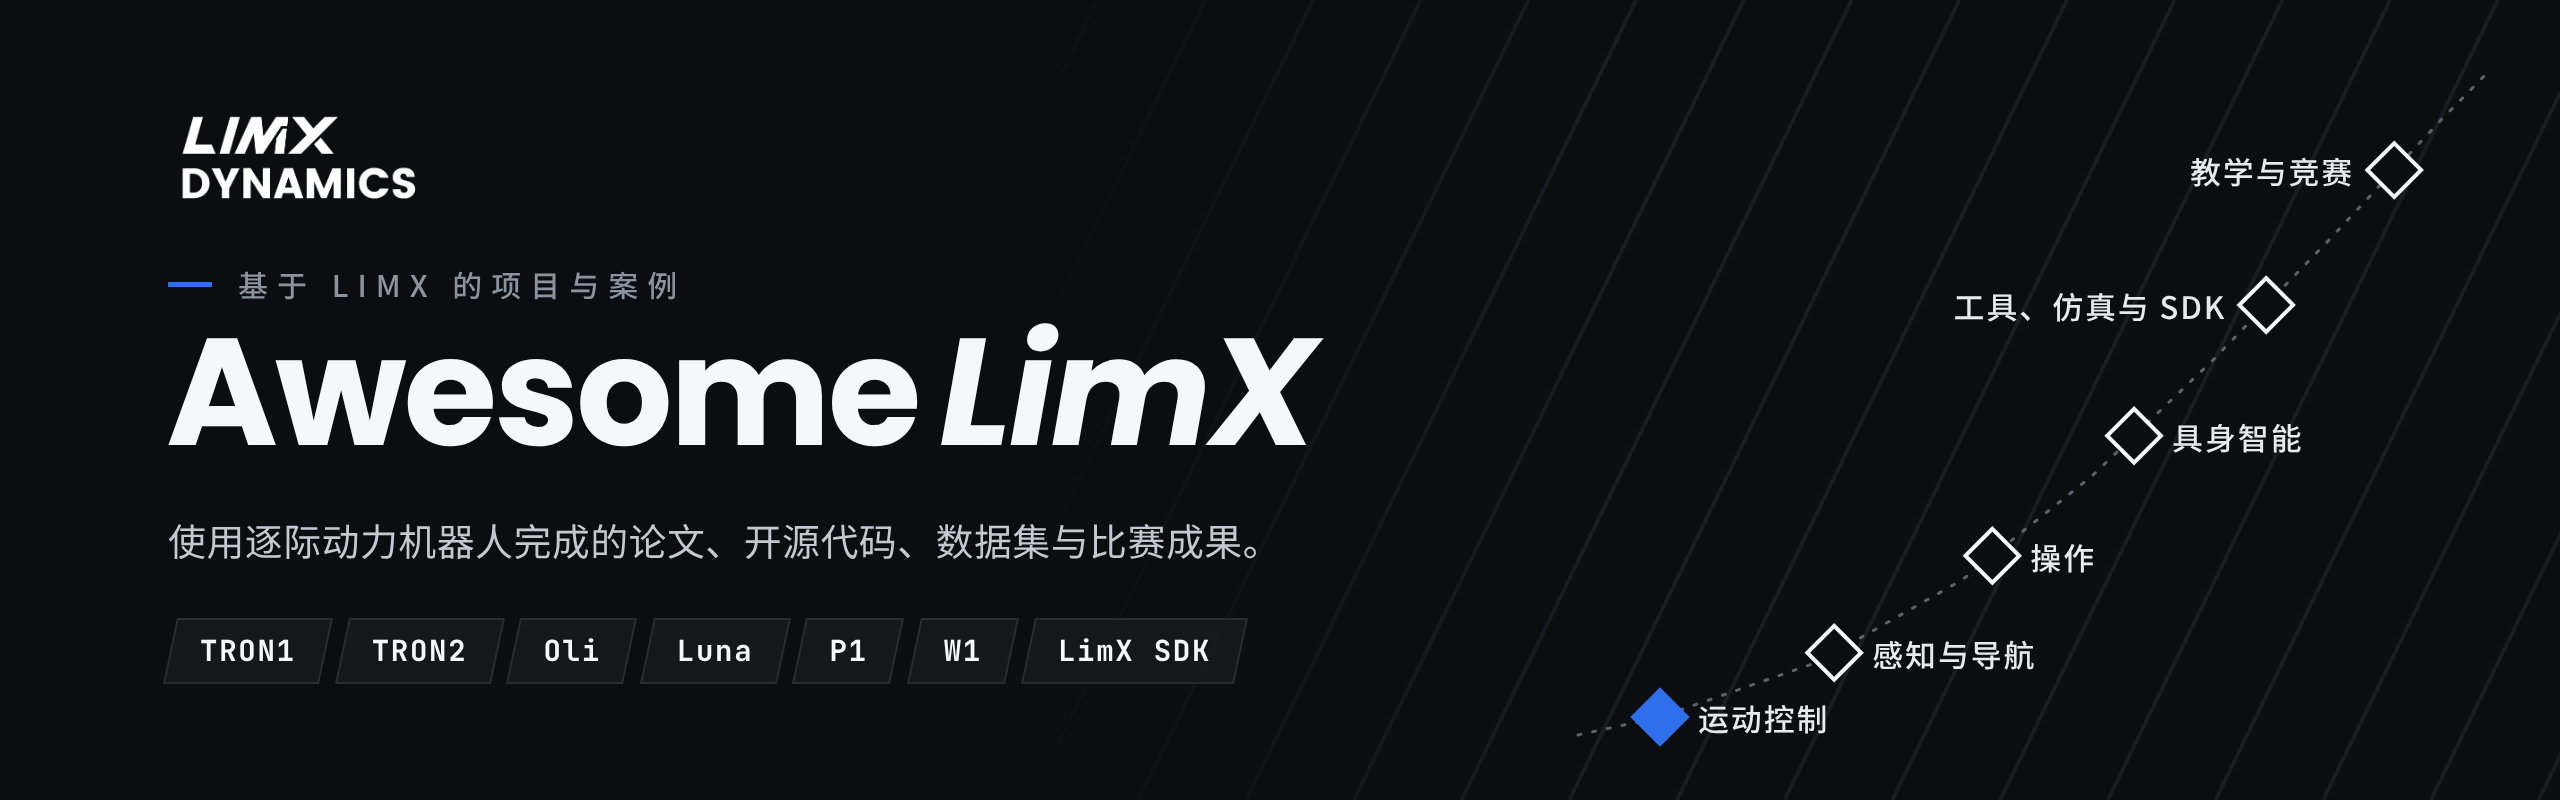
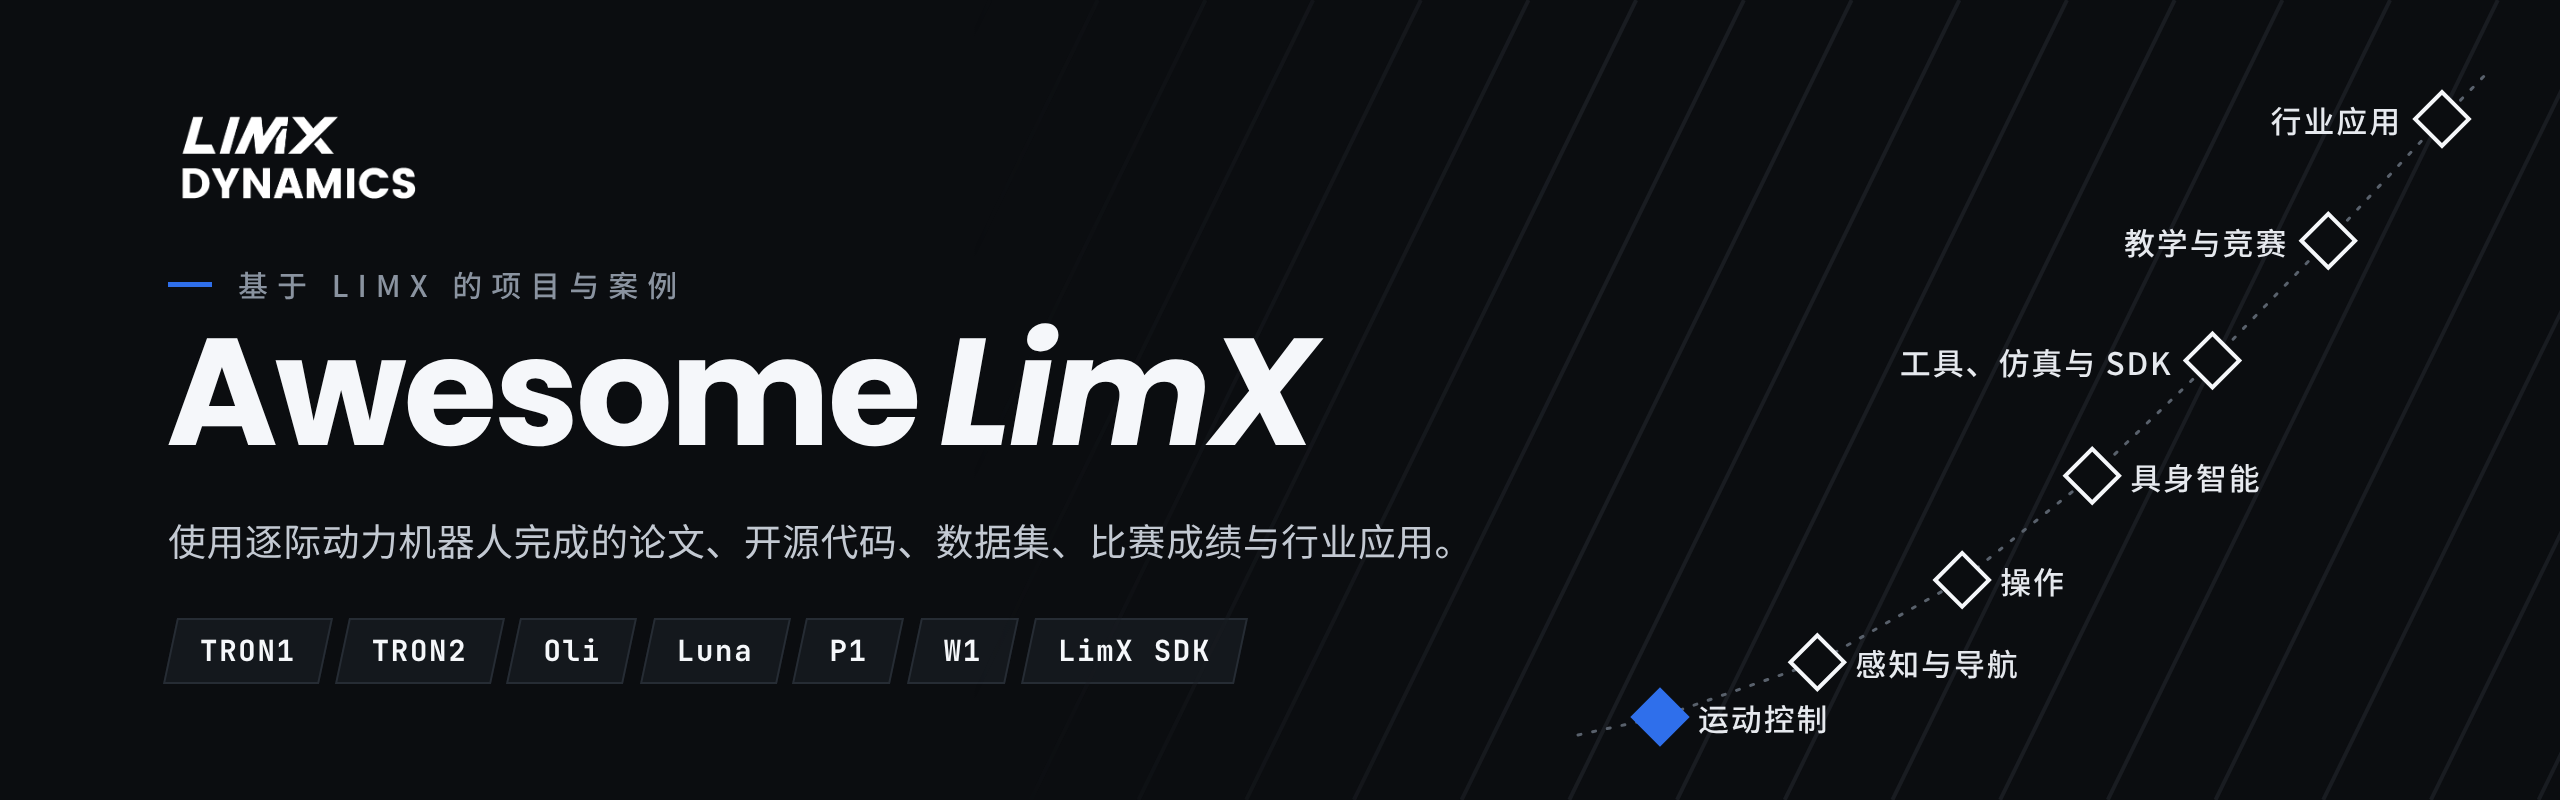
docs: add Industry deployments with two public partner projects
- TENNIIX ULTRA MAX (Enhanced Robotics): tennis robot on a TRON2 base at the 2026 BJK Cup Finals
- ZINOVA Tool Intelligence: two TRON2s on a scaled tilt-up concrete job
- CONTRIBUTING: a company's own public announcement counts as agreement; add `news` link kind
- Banner, intro line, nav and By robot table include the new section

diff --git a/README.md b/README.md
@@ -12,25 +12,25 @@
   <a href="https://github.com/limxdynamics/limxdynamics/blob/main/doc/wechat_qr.png"><img src="https://img.shields.io/badge/WeChat-Developer%20Community-07C160?logo=wechat&logoColor=white" alt="WeChat Community"></a>
 </p>
 
-Public work that uses LimX hardware or software: papers, open-source code, datasets, tutorials and competition results. LimX's own open-source releases live on [GitHub](https://github.com/limxdynamics) and [Hugging Face](https://huggingface.co/limxdynamics).
+Public work that uses LimX hardware or software: papers, open-source code, datasets, tutorials, competition results and industry deployments. LimX's own open-source releases live on [GitHub](https://github.com/limxdynamics) and [Hugging Face](https://huggingface.co/limxdynamics).
 
-**81** projects · **61** have open-source code
+**83** projects · **61** have open-source code
 
-[Before you start](#before-you-start) · [Locomotion & whole-body control](#locomotion--whole-body-control) (32) · [Perception & navigation](#perception--navigation) (5) · [Manipulation](#manipulation) (9) · [Embodied AI](#embodied-ai) (7) · [Tools, simulation & SDK](#tools-simulation--sdk) (19) · [Education & competitions](#education--competitions) (9) · [Contributing](#contributing)
+[Before you start](#before-you-start) · [Locomotion & whole-body control](#locomotion--whole-body-control) (32) · [Perception & navigation](#perception--navigation) (5) · [Manipulation](#manipulation) (9) · [Embodied AI](#embodied-ai) (7) · [Tools, simulation & SDK](#tools-simulation--sdk) (19) · [Education & competitions](#education--competitions) (9) · [Industry deployments](#industry-deployments) (2) · [Contributing](#contributing)
 
 _*sim* marks work shown only in simulation; everything else ran on a real robot._
 
 <details>
-<summary><b>By robot</b>: TRON1 52 · TRON2 15 · Oli 17 · Luna 2 · P1 3 · W1 1</summary>
+<summary><b>By robot</b>: TRON1 52 · TRON2 17 · Oli 17 · Luna 2 · P1 3 · W1 1</summary>
 
-| Robot | Total | Locomotion | Perception | Manipulation | Embodied AI | Tools | Education |
-|---|---:|---:|---:|---:|---:|---:|---:|
-| `TRON1` | **52** | 21 | 5 | 5 |  | 15 | 6 |
-| `TRON2` | **15** |  |  | 2 | 5 | 5 | 3 |
-| `Oli` | **17** | 9 |  | 2 | 2 | 3 | 1 |
-| `Luna` | **2** | 1 |  |  |  | 1 |  |
-| `P1` | **3** | 3 |  |  |  |  |  |
-| `W1` | **1** |  |  | 1 |  |  |  |
+| Robot | Total | Locomotion | Perception | Manipulation | Embodied AI | Tools | Education | Industry |
+|---|---:|---:|---:|---:|---:|---:|---:|---:|
+| `TRON1` | **52** | 21 | 5 | 5 |  | 15 | 6 |  |
+| `TRON2` | **17** |  |  | 2 | 5 | 5 | 3 | 2 |
+| `Oli` | **17** | 9 |  | 2 | 2 | 3 | 1 |  |
+| `Luna` | **2** | 1 |  |  |  | 1 |  |  |
+| `P1` | **3** | 3 |  |  |  |  |  |  |
+| `W1` | **1** |  |  | 1 |  |  |  |  |
 
 </details>
 
@@ -202,6 +202,15 @@ _9 entries: 1 paper · 7 code · 1 tutorial_
 | <a id="p-canton-tower-robot-climbing-challenge"></a>**Canton Tower Robot Climbing Challenge**: champion and best precision control, with FastStair | `Oli` | LimX | 2025 | Paper | [paper](https://arxiv.org/abs/2601.10365)&nbsp;·&nbsp;[result](https://www.sfccn.com/2026/1-1/5NMDE0NzNfMjA5MzM5NA.html) |
 | <a id="p-rl-bipedal-locomotion"></a>**RL Bipedal Locomotion**: SUSTech ACR2025 course project | `TRON1`&nbsp;*sim* | [81578823 (SUSTech)](https://github.com/81578823) | 2025 | Code | [code](https://github.com/81578823/RL_bipedal_locomotion_Isaaclab) |
 | <a id="p-pointfootgym"></a>**pointfootGym**: Isaac Gym course template | `TRON1`&nbsp;*sim* | [Haokai Su (SUSTech CLEAR Lab)](https://github.com/SuDaxia-kai) | 2024 | Code | [code](https://github.com/SuDaxia-kai/pointfootGym) |
+
+## Industry deployments
+
+_2 entries, both from public announcements_
+
+| Project | Robot | Author / Org | Year | Type | Links |
+|---|---|---|---|---|---|
+| <a id="p-tenniix-ultra-max"></a>**TENNIIX ULTRA MAX**: tennis robot on a TRON2 wheel-legged base, played at the 2026 Billie Jean King Cup Finals | `TRON2` | Enhanced Robotics (Tenniix) | 2026 | Paper | [news](https://www.news.cn/sports/20260928/f1776d7ca75042568a5137e256fa9425/c.html) |
+| <a id="p-zinova-tron2-construction"></a>**ZINOVA Tool Intelligence**: two TRON2s with a nail gun and rebar on a scaled tilt-up concrete job | `TRON2` | ZINOVA, RIC Robotics | 2026 | Paper | [video](https://www.youtube.com/watch?v=8KDxnT-4zl0)&nbsp;·&nbsp;[news](https://www.equipmentworld.com/technology/article/15836367/zinova-limx-bring-toolwielding-robots-to-construction) |
 
 ## Contributing
 

diff --git a/README_cn.md b/README_cn.md
@@ -12,25 +12,25 @@
   <a href="https://github.com/limxdynamics/limxdynamics/blob/main/doc/wechat_qr.png"><img src="https://img.shields.io/badge/%E5%BE%AE%E4%BF%A1-%E5%BC%80%E5%8F%91%E8%80%85%E7%A4%BE%E5%8C%BA-07C160?logo=wechat&logoColor=white" alt="微信开发者社区"></a>
 </p>
 
-收录所有使用 LimX 硬件或软件的公开成果：论文、开源代码、数据集、教程和比赛成绩。官方开源仓库请见 [GitHub](https://github.com/limxdynamics) 和 [Hugging Face](https://huggingface.co/limxdynamics)。
+收录所有使用 LimX 硬件或软件的公开成果：论文、开源代码、数据集、教程、比赛成绩和行业应用。官方开源仓库请见 [GitHub](https://github.com/limxdynamics) 和 [Hugging Face](https://huggingface.co/limxdynamics)。
 
-**81** 个项目 · **61** 个有开源代码
+**83** 个项目 · **61** 个有开源代码
 
-[动手之前](#动手之前) · [运动控制](#运动控制)（32） · [感知与导航](#感知与导航)（5） · [操作](#操作)（9） · [具身智能](#具身智能)（7） · [工具、仿真与 SDK](#工具仿真与-sdk)（19） · [教学与竞赛](#教学与竞赛)（9） · [参与贡献](#参与贡献)
+[动手之前](#动手之前) · [运动控制](#运动控制)（32） · [感知与导航](#感知与导航)（5） · [操作](#操作)（9） · [具身智能](#具身智能)（7） · [工具、仿真与 SDK](#工具仿真与-sdk)（19） · [教学与竞赛](#教学与竞赛)（9） · [行业应用](#行业应用)（2） · [参与贡献](#参与贡献)
 
 _标 *仿真* 的条目只在仿真中展示过，其余都在实机上运行过。_
 
 <details>
-<summary><b>按机型查找</b>：TRON1 52 · TRON2 15 · Oli 17 · Luna 2 · P1 3 · W1 1</summary>
+<summary><b>按机型查找</b>：TRON1 52 · TRON2 17 · Oli 17 · Luna 2 · P1 3 · W1 1</summary>
 
-| 机型 | 合计 | 运动控制 | 感知与导航 | 操作 | 具身智能 | 工具 | 教学与竞赛 |
-|---|---:|---:|---:|---:|---:|---:|---:|
-| `TRON1` | **52** | 21 | 5 | 5 |  | 15 | 6 |
-| `TRON2` | **15** |  |  | 2 | 5 | 5 | 3 |
-| `Oli` | **17** | 9 |  | 2 | 2 | 3 | 1 |
-| `Luna` | **2** | 1 |  |  |  | 1 |  |
-| `P1` | **3** | 3 |  |  |  |  |  |
-| `W1` | **1** |  |  | 1 |  |  |  |
+| 机型 | 合计 | 运动控制 | 感知与导航 | 操作 | 具身智能 | 工具 | 教学与竞赛 | 行业应用 |
+|---|---:|---:|---:|---:|---:|---:|---:|---:|
+| `TRON1` | **52** | 21 | 5 | 5 |  | 15 | 6 |  |
+| `TRON2` | **17** |  |  | 2 | 5 | 5 | 3 | 2 |
+| `Oli` | **17** | 9 |  | 2 | 2 | 3 | 1 |  |
+| `Luna` | **2** | 1 |  |  |  | 1 |  |  |
+| `P1` | **3** | 3 |  |  |  |  |  |  |
+| `W1` | **1** |  |  | 1 |  |  |  |  |
 
 </details>
 
@@ -201,6 +201,15 @@ _9 个条目：1 篇论文 · 7 个代码 · 1 个教程_
 | <a id="p-canton-tower-robot-climbing-challenge"></a>**广州塔机器人登高挑战赛**：冠军及最佳精准控制奖，采用 FastStair | `Oli` | 逐际动力 | 2025 | 论文 | [论文](https://arxiv.org/abs/2601.10365)&nbsp;·&nbsp;[成绩](https://www.sfccn.com/2026/1-1/5NMDE0NzNfMjA5MzM5NA.html) |
 | <a id="p-rl-bipedal-locomotion"></a>**双足运动强化学习**：南方科大 ACR2025 课程项目 | `TRON1`&nbsp;*仿真* | [81578823（南方科大）](https://github.com/81578823) | 2025 | 代码 | [代码](https://github.com/81578823/RL_bipedal_locomotion_Isaaclab) |
 | <a id="p-pointfootgym"></a>**pointfootGym**：Isaac Gym 课程模板 | `TRON1`&nbsp;*仿真* | [Haokai Su（南方科大 CLEAR 实验室）](https://github.com/SuDaxia-kai) | 2024 | 代码 | [代码](https://github.com/SuDaxia-kai/pointfootGym) |
+
+## 行业应用
+
+_2 个条目，均来自公开发布_
+
+| 项目 | 机型 | 作者 / 机构 | 年份 | 类型 | 链接 |
+|---|---|---|---|---|---|
+| <a id="p-tenniix-ultra-max"></a>**TENNIIX ULTRA MAX**：以 TRON2 轮足为底盘的网球机器人，在 2026 比莉·简·金杯总决赛与职业选手对打 | `TRON2` | 英汉思动力（Tenniix） | 2026 | 论文 | [报道](https://www.news.cn/sports/20260928/f1776d7ca75042568a5137e256fa9425/c.html) |
+| <a id="p-zinova-tron2-construction"></a>**ZINOVA Tool Intelligence**：两台 TRON2 用钉枪和钢筋完成缩比混凝土预制墙施工 | `TRON2` | ZINOVA、RIC Robotics | 2026 | 论文 | [视频](https://www.youtube.com/watch?v=8KDxnT-4zl0)&nbsp;·&nbsp;[报道](https://www.equipmentworld.com/technology/article/15836367/zinova-limx-bring-toolwielding-robots-to-construction) |
 
 ## 参与贡献
 

diff --git a/CONTRIBUTING.md b/CONTRIBUTING.md
@@ -50,7 +50,7 @@ Each section is a table. Add one row per project:
 - **Robot**: TRON1, TRON2, Oli, Luna, an earlier LimX robot such as P1, or LimX SDK, in backticks. List more than one if the work used several. Add `&nbsp;*sim*` after the robots when public sources show the work only in simulation, sim-to-sim included. No mark means it ran on a real robot. Tools are not marked.
 - **Author / Org**: your GitHub or Hugging Face handle, linked to your profile, or your lab or institution. For papers with several institutions, name the first two or three and add "et al.", without a link.
 - **Year**: the year the work was published or shown, in its own column.
-- **Links**: include only the kinds that exist, in this order: project, paper, code, video, model, dataset, tutorial, result. Use `result` for an official competition result. Separate them with `&nbsp;·&nbsp;` so the links stay on one line.
+- **Links**: include only the kinds that exist, in this order: project, paper, code, video, model, dataset, tutorial, news, result. Use `news` for press coverage of a deployment and `result` for an official competition result. Separate them with `&nbsp;·&nbsp;` so the links stay on one line.
 - **Order**: newest first within each section.
 - **Type**: `Code`, `Tutorial` or `Paper`, decided by the maintainers. See [Type](#type). Leave it out when you submit.
 
@@ -64,7 +64,7 @@ The Type column answers one question: what can a reader do with this?
 |---|---|
 | **Code** | Something to clone or download: a repository, a model, a dataset |
 | **Tutorial** | Something to follow: a tutorial, a course, a Hugging Face Space |
-| **Paper** | Something to read: a paper, a project page, a write-up, a result announcement |
+| **Paper** | Something to read: a paper, a project page, a write-up, a news report, a result announcement |
 
 Decide in this order:
 
@@ -99,7 +99,7 @@ If a project fits more than one section, choose the one that best describes its 
 | The work used LimX hardware or software, on a real robot or in simulation with official LimX models | That is what this list shows. "Might be compatible" does not count. |
 | A public source says so: the paper names the robot, the video shows it, or the README states it | Anyone reading the list should be able to check the claim. |
 | There is a public link to the original source | We link to where the work lives. We do not host it. |
-| Company projects only with the company's agreement | We do not announce someone else's business relationship before they do. |
+| Company projects only with the company's agreement, or once the company has announced the work itself | We do not announce someone else's business relationship before they do. |
 | Links only: no copied code, papers, videos, screenshots or logos | Those belong to their owners. |
 
 Work by LimX researchers, such as papers and competition results, is welcome on the same terms as anyone else's.
@@ -113,7 +113,7 @@ We do not accept:
 
 ## Company projects
 
-If you submit a product or a company deployment, confirm in the form, pull request or email that the company agrees to be listed. If the company wants to announce first, tell us and we will wait.
+If you submit a product or a company deployment, confirm in the form, pull request or email that the company agrees to be listed. If the company or both partners have already announced the work publicly, link that announcement or the press coverage instead. A signed agreement on its own is not enough: there has to be public work on a LimX robot, such as a demo, a product or a deployment. If the company wants to announce first, tell us and we will wait.
 
 ## Screenshots and logos
 

diff --git a/CONTRIBUTING_cn.md b/CONTRIBUTING_cn.md
@@ -47,7 +47,7 @@ python scripts/check_list.py
 - **机型**：TRON1、TRON2、Oli、Luna、P1 等早期 LimX 机型，或 LimX SDK，用反引号括起来。用了多个就都写上。公开资料只展示了仿真结果（包括 sim2sim）的，在机型后加 `&nbsp;*仿真*`；不标即表示在实机上运行过。工具类条目不标。
 - **作者 / 机构**：个人写 GitHub 或 Hugging Face 账号名，并链接到主页；也可以写实验室或机构。多机构合作的论文写前两三个机构再加“等”，不加链接。
 - **年份**：成果发表或公开展示的年份，单独一列。
-- **链接**：只写实际存在的，按主页、论文、代码、视频、模型、数据集、教程、成绩的顺序。比赛官方公布的成绩用“成绩”。链接之间用 `&nbsp;·&nbsp;` 分隔，这样不会折行。
+- **链接**：只写实际存在的，按主页、论文、代码、视频、模型、数据集、教程、报道、成绩的顺序。落地项目的媒体报道用“报道”，比赛官方公布的成绩用“成绩”。链接之间用 `&nbsp;·&nbsp;` 分隔，这样不会折行。
 - **排序**：各分类内按时间从新到旧。
 - **类型**：`代码`、`教程` 或 `论文`，由维护者判定，见[类型说明](#类型)。提交时不用写。
 
@@ -61,7 +61,7 @@ python scripts/check_list.py
 |---|---|
 | **代码** | 能克隆或下载：仓库、模型、数据集 |
 | **教程** | 能跟着做：教程、课程、Hugging Face Space |
-| **论文** | 只能读：论文、项目主页、分析文章、成绩公告 |
+| **论文** | 只能读：论文、项目主页、分析文章、媒体报道、成绩公告 |
 
 按这个顺序判断：
 
@@ -94,7 +94,7 @@ python scripts/check_list.py
 | 使用了 LimX 的硬件或软件，实机或基于 LimX 官方模型的仿真均可 | 这正是本列表要展示的内容。“可能兼容”不算。 |
 | 有公开资料能说明这一点：论文写明了机器人型号、视频里能看到机器人，或 README 中有说明 | 读者应能自行核实。 |
 | 有公开的原始出处链接 | 我们链接到成果所在的地方，不托管内容。 |
-| 企业项目须经该企业同意 | 别人的商业合作关系，不由我们抢先公布。 |
+| 企业项目须经该企业同意，或该企业已自行公开发布 | 别人的商业合作关系，不由我们抢先公布。 |
 | 只放链接：不转载代码、论文、视频、截图或 Logo | 这些都归原作者所有。 |
 
 逐际动力研究人员的工作，比如论文、比赛成绩，也欢迎提交，标准和其他人相同。
@@ -108,7 +108,7 @@ python scripts/check_list.py
 
 ## 企业项目
 
-提交产品或企业落地项目时，请在表单、PR 或邮件中确认该企业同意公开收录。如果企业希望先自行发布，告诉我们，我们会等。
+提交产品或企业落地项目时，请在表单、PR 或邮件中确认该企业同意公开收录。如果企业或合作双方已经公开发布过，附上发布稿或媒体报道链接即可。只签了合作协议还不够，需要有基于 LimX 机器人的公开成果，比如演示、产品或落地项目。如果企业希望先自行发布，告诉我们，我们会等。
 
 ## 截图和 Logo
 
